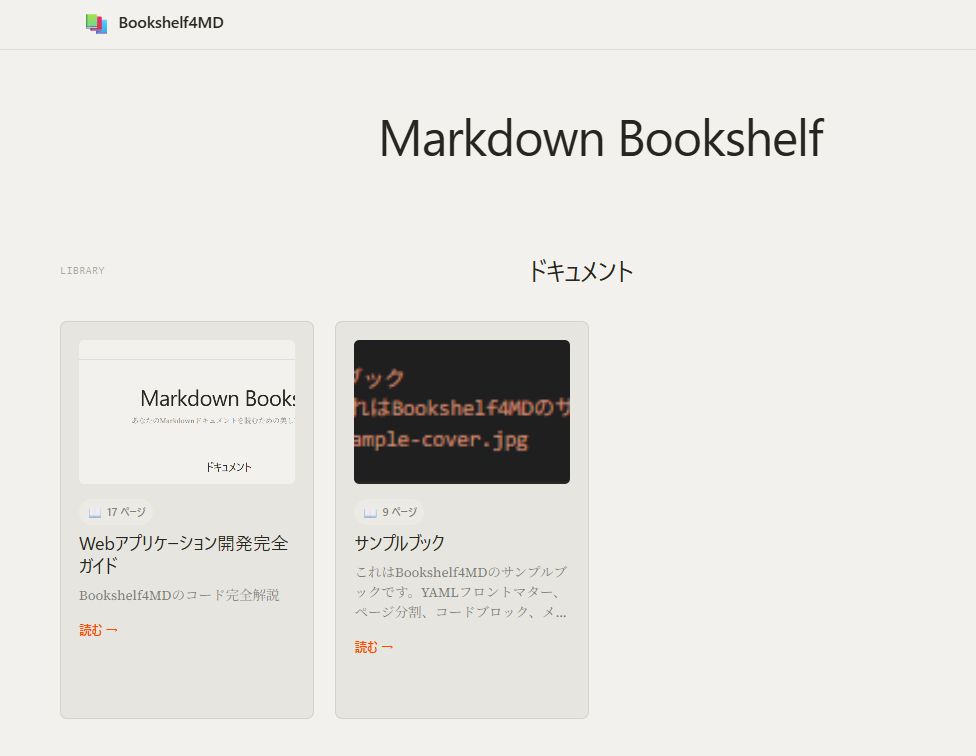
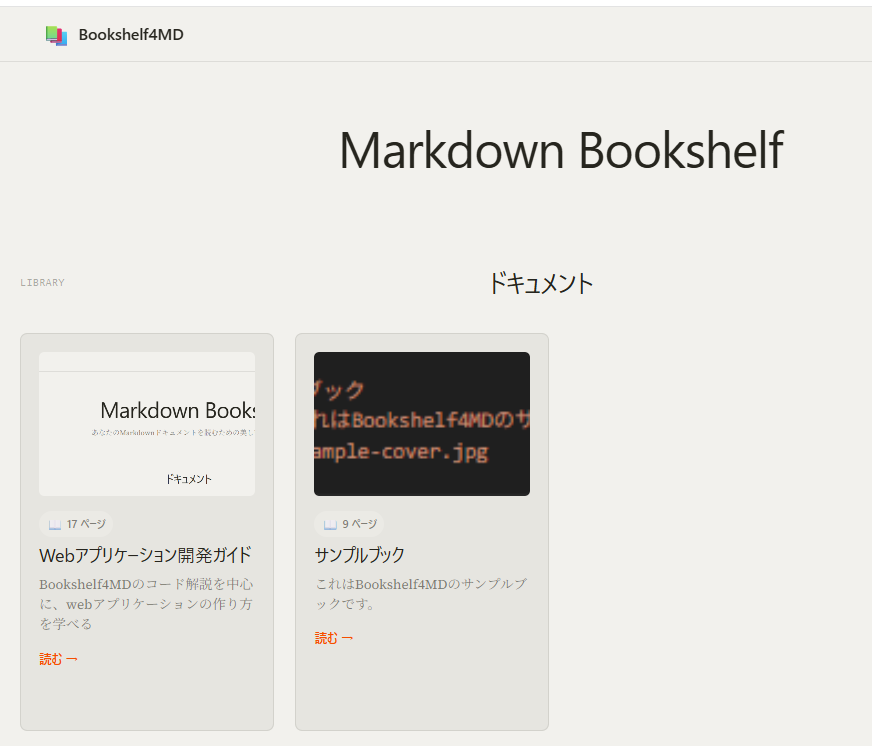
update books

diff --git a/mds/web-app-development-complete-guide.md b/mds/web-app-development-complete-guide.md
@@ -1,10 +1,10 @@
 ---
-title: Webアプリケーション開発完全ガイド
-description: Bookshelf4MDのコード完全解説
+title: Webアプリケーション開発ガイド
+description: Bookshelf4MDのコード解説を中心に、webアプリケーションの作り方を学べる
 cover: /media_mds/media_web-app-development-complete-guide/image.png
 ---
 
-# Webアプリケーション開発完全ガイド
+# Webアプリケーション開発ガイド
 
 Webアプリケーションをゼロから作るために必要な知識を学びます。
 

diff --git a/mds/sample-book.md b/mds/sample-book.md
@@ -1,6 +1,6 @@
 ---
 title: サンプルブック
-description: これはBookshelf4MDのサンプルブックです。YAMLフロントマター、ページ分割、コードブロック、メディア埋め込みなどの機能をデモンストレーションします。
+description: これはBookshelf4MDのサンプルブックです。
 cover:  /media_mds/media_sample-book/image.png
 ---
 
